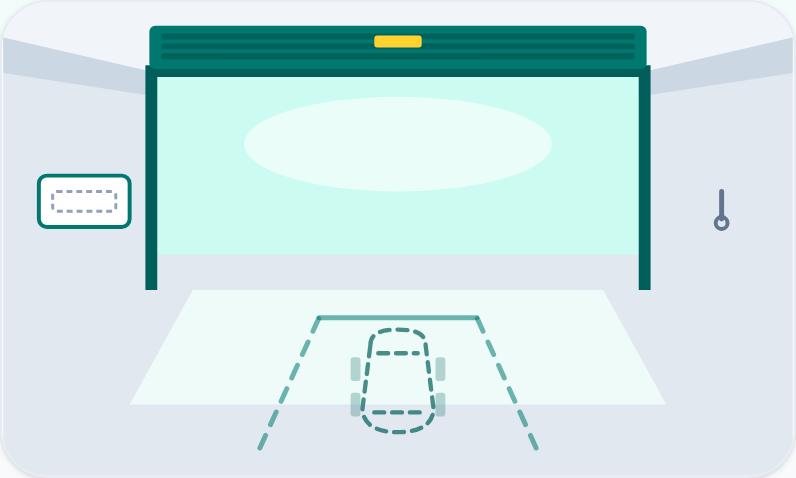
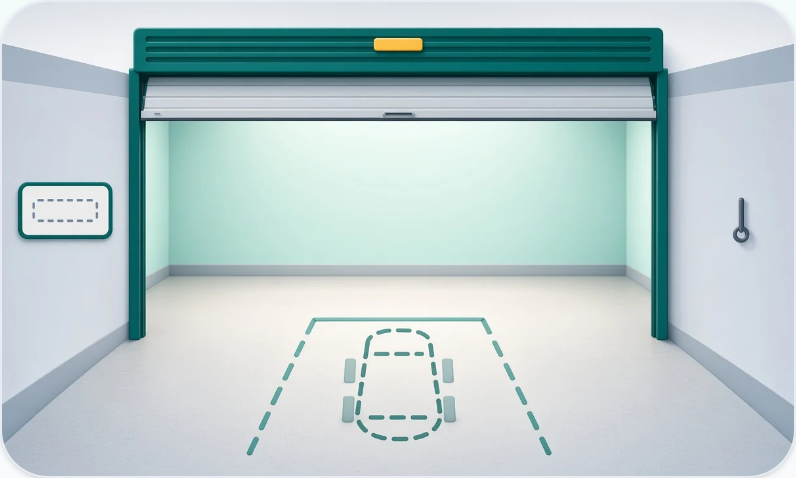
fix: render empty-garage illustration as WebP, not SVG
Keep the open-bay metaphor Derek liked (stall lines, ghost vehicle,
blank plate). Switch the medium to light/dark public WebP rasters
wired with img tags. Update unit tests and harness evidence.

diff --git a/src/components/garage/GarageEmptyIllustration.tsx b/src/components/garage/GarageEmptyIllustration.tsx
@@ -1,7 +1,13 @@
+export const EMPTY_GARAGE_ART = {
+  light: "/images/garage/empty-bay-light.webp",
+  dark: "/images/garage/empty-bay-dark.webp",
+} as const;
+
+const ALT = "Empty garage bay ready for a first registration";
+
 /**
- * Theme-aware empty-garage SVG (no people, not a photo).
- * Light/dark fills use REGI teal + slate tokens — solid Tailwind classes,
- * not gradient stop-color, so `.dark` reliably flips the palette.
+ * Raster empty-garage art (WebP). REGI UI illustrations are never SVG.
+ * Light + dark frames; `.dark` shows the dusk bay.
  */
 export function GarageEmptyIllustration({
   className = "",
@@ -13,201 +19,18 @@ export function GarageEmptyIllustration({
       className={`relative overflow-hidden ${className}`}
       data-testid="garage-empty-illustration"
     >
-      <svg
-        viewBox="0 0 400 240"
-        className="h-full w-full"
-        role="img"
-        aria-labelledby="garage-empty-illustration-title"
-      >
-        <title id="garage-empty-illustration-title">
-          Empty garage bay ready for a first registration
-        </title>
-        <desc>
-          An open garage with an empty parking stall, a faint vehicle outline,
-          and a blank plate on the wall.
-        </desc>
-
-        {/* Interior wash */}
-        <rect
-          width="400"
-          height="240"
-          className="fill-slate-100 dark:fill-slate-950"
-        />
-
-        {/* Daylight through the open door */}
-        <rect
-          x="78"
-          y="36"
-          width="244"
-          height="110"
-          className="fill-teal-100 dark:fill-teal-950"
-        />
-        <ellipse
-          cx="200"
-          cy="72"
-          rx="78"
-          ry="24"
-          className="fill-white/60 dark:fill-teal-200/15"
-        />
-
-        {/* Kick plate / back wall under the opening */}
-        <rect
-          x="78"
-          y="128"
-          width="244"
-          height="18"
-          className="fill-slate-200 dark:fill-slate-700"
-        />
-
-        {/* Left wall */}
-        <path
-          d="M0 18 L78 36 L78 146 L0 240 Z"
-          className="fill-slate-200 dark:fill-slate-800"
-        />
-        <path
-          d="M0 18 L78 36 L78 48 L0 36 Z"
-          className="fill-slate-300/90 dark:fill-slate-700"
-        />
-
-        {/* Right wall */}
-        <path
-          d="M400 18 L322 36 L322 146 L400 240 Z"
-          className="fill-slate-200 dark:fill-slate-800"
-        />
-        <path
-          d="M400 18 L322 36 L322 48 L400 36 Z"
-          className="fill-slate-300/90 dark:fill-slate-700"
-        />
-
-        {/* Concrete floor */}
-        <path
-          d="M78 146 L322 146 L400 240 L0 240 Z"
-          className="fill-slate-200 dark:fill-slate-800"
-        />
-        <path
-          d="M96 146 L304 146 L336 204 L64 204 Z"
-          className="fill-teal-50/90 dark:fill-teal-950/55"
-        />
-
-        {/* Parking stall */}
-        <g
-          fill="none"
-          className="stroke-teal-700/55 dark:stroke-teal-300/65"
-          strokeWidth="2.5"
-          strokeLinecap="round"
-        >
-          <path d="M130 226 L160 160" strokeDasharray="7 6" />
-          <path d="M270 226 L240 160" strokeDasharray="7 6" />
-          <path d="M160 160 H240" />
-        </g>
-
-        {/* Ghost vehicle — top-down sedan in the stall */}
-        <g
-          fill="none"
-          className="stroke-teal-800/70 dark:stroke-teal-100/80"
-          strokeWidth="2.2"
-          strokeLinejoin="round"
-          strokeLinecap="round"
-          strokeDasharray="5 4"
-        >
-          <path d="M186 174 C186 168 191 166 200 166 C209 166 214 168 214 174 L218 206 C218 214 211 218 200 218 C189 218 182 214 182 206 Z" />
-          <path d="M190 178 H210" />
-          <path d="M188 208 H212" />
-        </g>
-        <g
-          className="fill-teal-800/25 dark:fill-teal-100/20"
-        >
-          <rect x="176" y="180" width="5" height="12" rx="1.5" />
-          <rect x="219" y="180" width="5" height="12" rx="1.5" />
-          <rect x="176" y="198" width="5" height="12" rx="1.5" />
-          <rect x="219" y="198" width="5" height="12" rx="1.5" />
-        </g>
-
-        {/* Door frame */}
-        <path
-          d="M72 32 H328 V146 H322 V38 H78 V146 H72 Z"
-          className="fill-teal-800 dark:fill-teal-500"
-        />
-
-        {/* Sectional door stacked open at the header */}
-        <g>
-          <rect
-            x="74"
-            y="12"
-            width="252"
-            height="22"
-            rx="3"
-            className="fill-teal-700 dark:fill-teal-400"
-          />
-          {[0, 1, 2].map((i) => (
-            <rect
-              key={i}
-              x="80"
-              y={16 + i * 5}
-              width="240"
-              height="3"
-              rx="1"
-              className="fill-teal-950/30 dark:fill-teal-950/45"
-            />
-          ))}
-          <rect
-            x="188"
-            y="17"
-            width="24"
-            height="6"
-            rx="1.5"
-            className="fill-amber-300 dark:fill-amber-200"
-          />
-        </g>
-
-        {/* Blank plate on the left wall */}
-        <g transform="translate(18 88)">
-          <rect
-            x="0"
-            y="0"
-            width="46"
-            height="26"
-            rx="4"
-            className="fill-white dark:fill-slate-900"
-          />
-          <rect
-            x="0"
-            y="0"
-            width="46"
-            height="26"
-            rx="4"
-            className="fill-none stroke-teal-700 dark:stroke-teal-300"
-            strokeWidth="2"
-          />
-          <rect
-            x="7"
-            y="8"
-            width="32"
-            height="10"
-            rx="2"
-            className="fill-none stroke-slate-400 dark:stroke-slate-500"
-            strokeWidth="1.5"
-            strokeDasharray="3 2"
-          />
-        </g>
-
-        {/* Empty hook on the right wall */}
-        <g transform="translate(354 96)">
-          <path
-            d="M10 0 v14"
-            className="stroke-slate-500 dark:stroke-slate-400"
-            strokeWidth="2.5"
-            strokeLinecap="round"
-          />
-          <circle
-            cx="10"
-            cy="16"
-            r="3"
-            className="fill-none stroke-slate-500 dark:stroke-slate-400"
-            strokeWidth="2"
-          />
-        </g>
-      </svg>
+      {/* eslint-disable-next-line @next/next/no-img-element -- public WebP; Vite evidence harness cannot use next/image */}
+      <img
+        src={EMPTY_GARAGE_ART.light}
+        alt={ALT}
+        className="h-full w-full object-cover dark:hidden"
+      />
+      {/* eslint-disable-next-line @next/next/no-img-element -- public WebP; Vite evidence harness cannot use next/image */}
+      <img
+        src={EMPTY_GARAGE_ART.dark}
+        alt={ALT}
+        className="hidden h-full w-full object-cover dark:block"
+      />
     </div>
   );
 }

diff --git a/src/components/garage/GarageEmptyState.test.tsx b/src/components/garage/GarageEmptyState.test.tsx
@@ -2,7 +2,10 @@
 
 import { afterEach, describe, expect, it, vi } from "vitest";
 import { click, render } from "@/components/test/render";
-import { GarageEmptyIllustration } from "@/components/garage/GarageEmptyIllustration";
+import {
+  EMPTY_GARAGE_ART,
+  GarageEmptyIllustration,
+} from "@/components/garage/GarageEmptyIllustration";
 import { GarageEmptyState } from "@/components/garage/GarageEmptyState";
 
 describe("GarageEmptyIllustration", () => {
@@ -10,17 +13,29 @@ describe("GarageEmptyIllustration", () => {
     document.body.innerHTML = "";
   });
 
-  it("renders an inline SVG of an empty bay, not a photo", async () => {
+  it("renders light and dark WebP rasters, not an SVG", async () => {
     const { container, unmount } = await render(<GarageEmptyIllustration />);
 
     const frame = container.querySelector(
       '[data-testid="garage-empty-illustration"]',
     );
     expect(frame).toBeTruthy();
-    expect(frame?.querySelector("svg")).toBeTruthy();
-    expect(frame?.querySelector("img")).toBeNull();
-    expect(container.textContent).toMatch(/Empty garage bay ready for a first registration/);
-    expect(container.textContent).not.toMatch(/person|portrait|photo/i);
+    expect(frame?.querySelector("svg")).toBeNull();
+
+    const images = [...container.querySelectorAll("img")];
+    expect(images).toHaveLength(2);
+    expect(images.map((img) => img.getAttribute("src"))).toEqual([
+      EMPTY_GARAGE_ART.light,
+      EMPTY_GARAGE_ART.dark,
+    ]);
+    expect(EMPTY_GARAGE_ART.light).toMatch(/\.webp$/);
+    expect(EMPTY_GARAGE_ART.dark).toMatch(/\.webp$/);
+    expect(images[0]?.getAttribute("alt")).toBe(
+      "Empty garage bay ready for a first registration",
+    );
+    expect(images[0]?.className).toContain("dark:hidden");
+    expect(images[1]?.className).toContain("hidden");
+    expect(images[1]?.className).toContain("dark:block");
 
     await unmount();
   });
@@ -43,8 +58,13 @@ describe("GarageEmptyState", () => {
     expect(section?.textContent).toContain("Add your first registration");
     expect(section?.textContent).toContain("Passenger vehicle, motorcycle, trailer");
     expect(
-      container.querySelector('[data-testid="garage-empty-illustration"] svg'),
+      container.querySelector(
+        `[data-testid="garage-empty-illustration"] img[src="${EMPTY_GARAGE_ART.light}"]`,
+      ),
     ).toBeTruthy();
+    expect(
+      container.querySelector('[data-testid="garage-empty-illustration"] svg'),
+    ).toBeNull();
 
     const cta = container.querySelector(
       '[data-testid="add-first-registration-button"]',
@@ -70,8 +90,9 @@ describe("GarageEmptyState", () => {
     expect(html).toContain("dark:text-teal-300");
     expect(html).toContain("dark:text-slate-100");
     expect(html).toContain("dark:border-slate-700/80");
-    expect(html).toContain("dark:fill-slate-950");
-    expect(html).toContain("dark:stroke-teal-300/65");
+    expect(html).toContain("dark:hidden");
+    expect(html).toContain("dark:block");
+    expect(html).toContain(EMPTY_GARAGE_ART.dark);
 
     await unmount();
   });

diff --git a/docs/evidence/garage-empty-state/README.md b/docs/evidence/garage-empty-state/README.md
@@ -1,8 +1,8 @@
 # Garage empty-state illustration evidence
 
-Screenshots of `GarageEmptyState` (first-run garage, no vehicles) after adding
-the theme-aware empty-bay SVG. `/garage` is auth-gated, so these were captured
-from the Vite harness that mounts the same component.
+Screenshots of `GarageEmptyState` (first-run garage, no vehicles) with
+photoreal empty-bay **WebP** art (not SVG). `/garage` is auth-gated, so these
+were captured from the Vite harness that mounts the same component.
 
 Regenerate:
 
@@ -12,10 +12,10 @@ npm run capture:garage-empty-evidence
 
 What this evidence is meant to show:
 
-- Inline SVG empty-garage illustration (not an AI photo of a person)
+- Raster empty-garage illustration (`/images/garage/empty-bay-{light,dark}.webp`)
 - Heading **Add your first registration**
 - Primary CTA **Add a registration** (`data-testid="add-first-registration-button"`)
-- Light and dark treatments matching REGI AppShell tokens
+- Light and dark treatments (separate WebP per theme)
 - Mobile + desktop widths
 
 Staging walk (after this branch is deployed to `regi-staging`): sign in as
@@ -26,9 +26,9 @@ Use this harness, or a walk account with zero registrations.
 | File | What it shows |
 | --- | --- |
 | `empty_garage_light.png` | Full first-run empty state, light theme |
-| `empty_garage_illustration_light.png` | Empty-bay SVG crop, light |
+| `empty_garage_illustration_light.png` | Empty-bay WebP crop, light |
 | `empty_garage_cta_light.png` | Add a registration CTA |
 | `empty_garage_dark.png` | Full first-run empty state, dark theme |
-| `empty_garage_illustration_dark.png` | Empty-bay SVG crop, dark |
+| `empty_garage_illustration_dark.png` | Empty-bay WebP crop, dark |
 | `empty_garage_light_mobile.png` | Phone-width light empty state |
 | `empty_garage_light_desktop.png` | Desktop-width light empty state |
